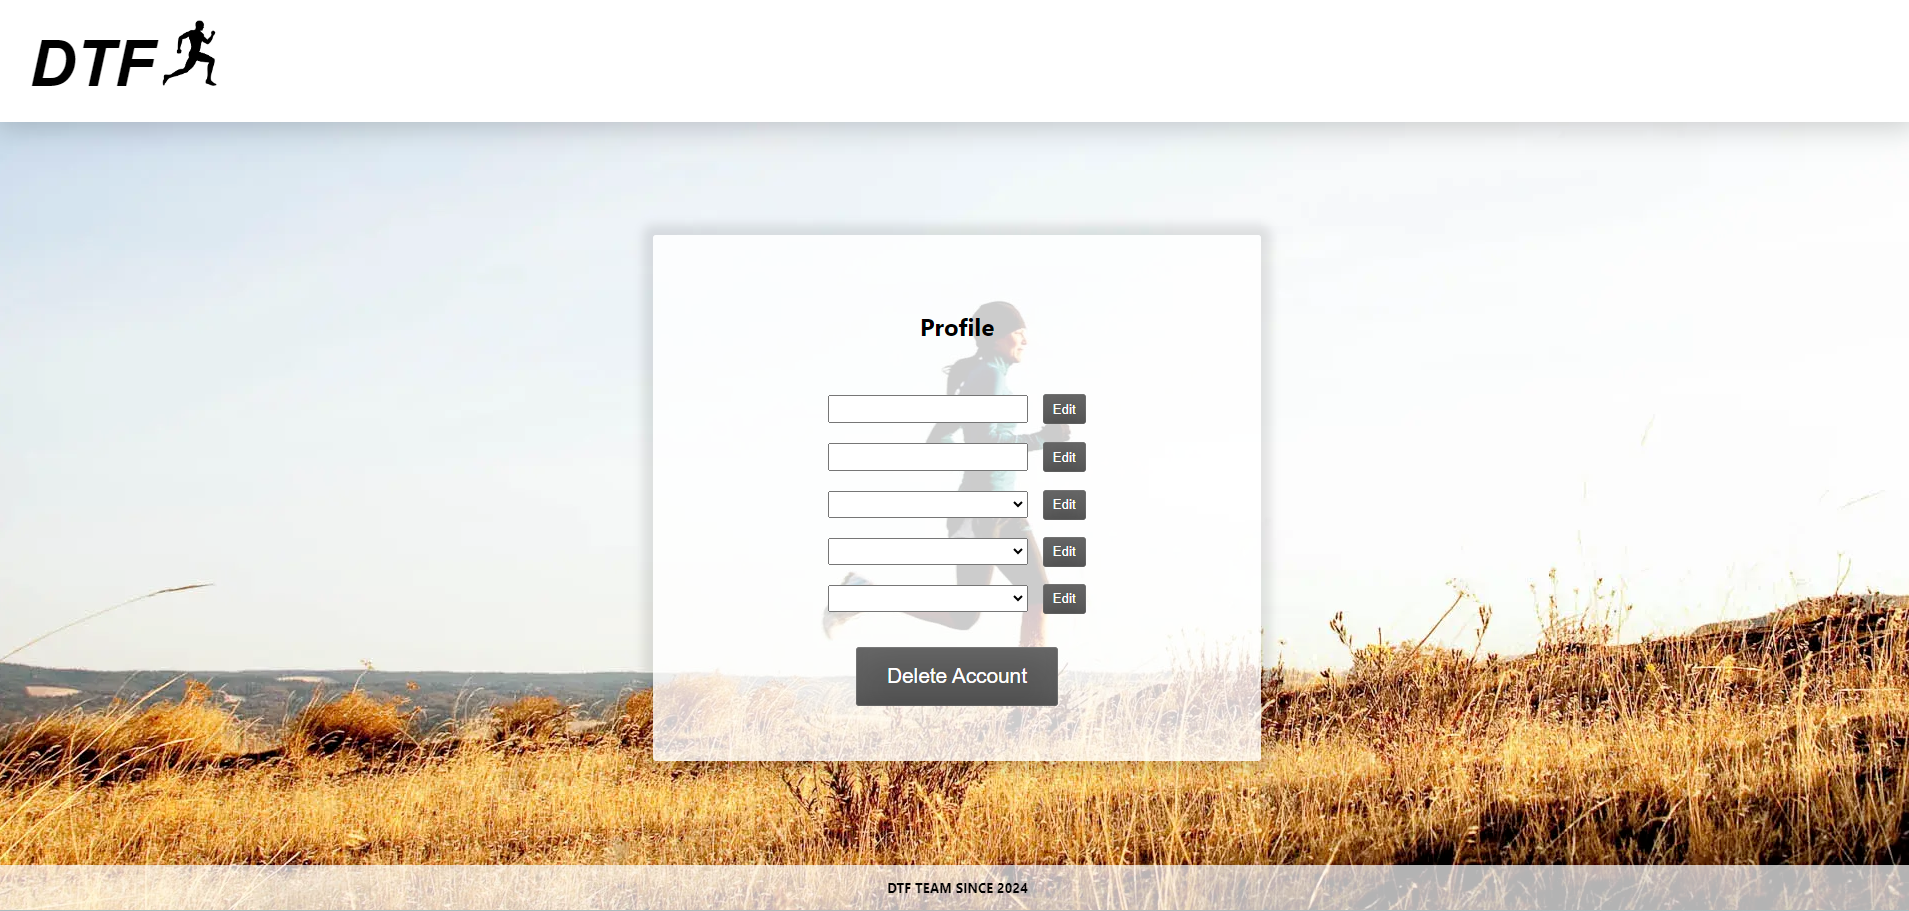
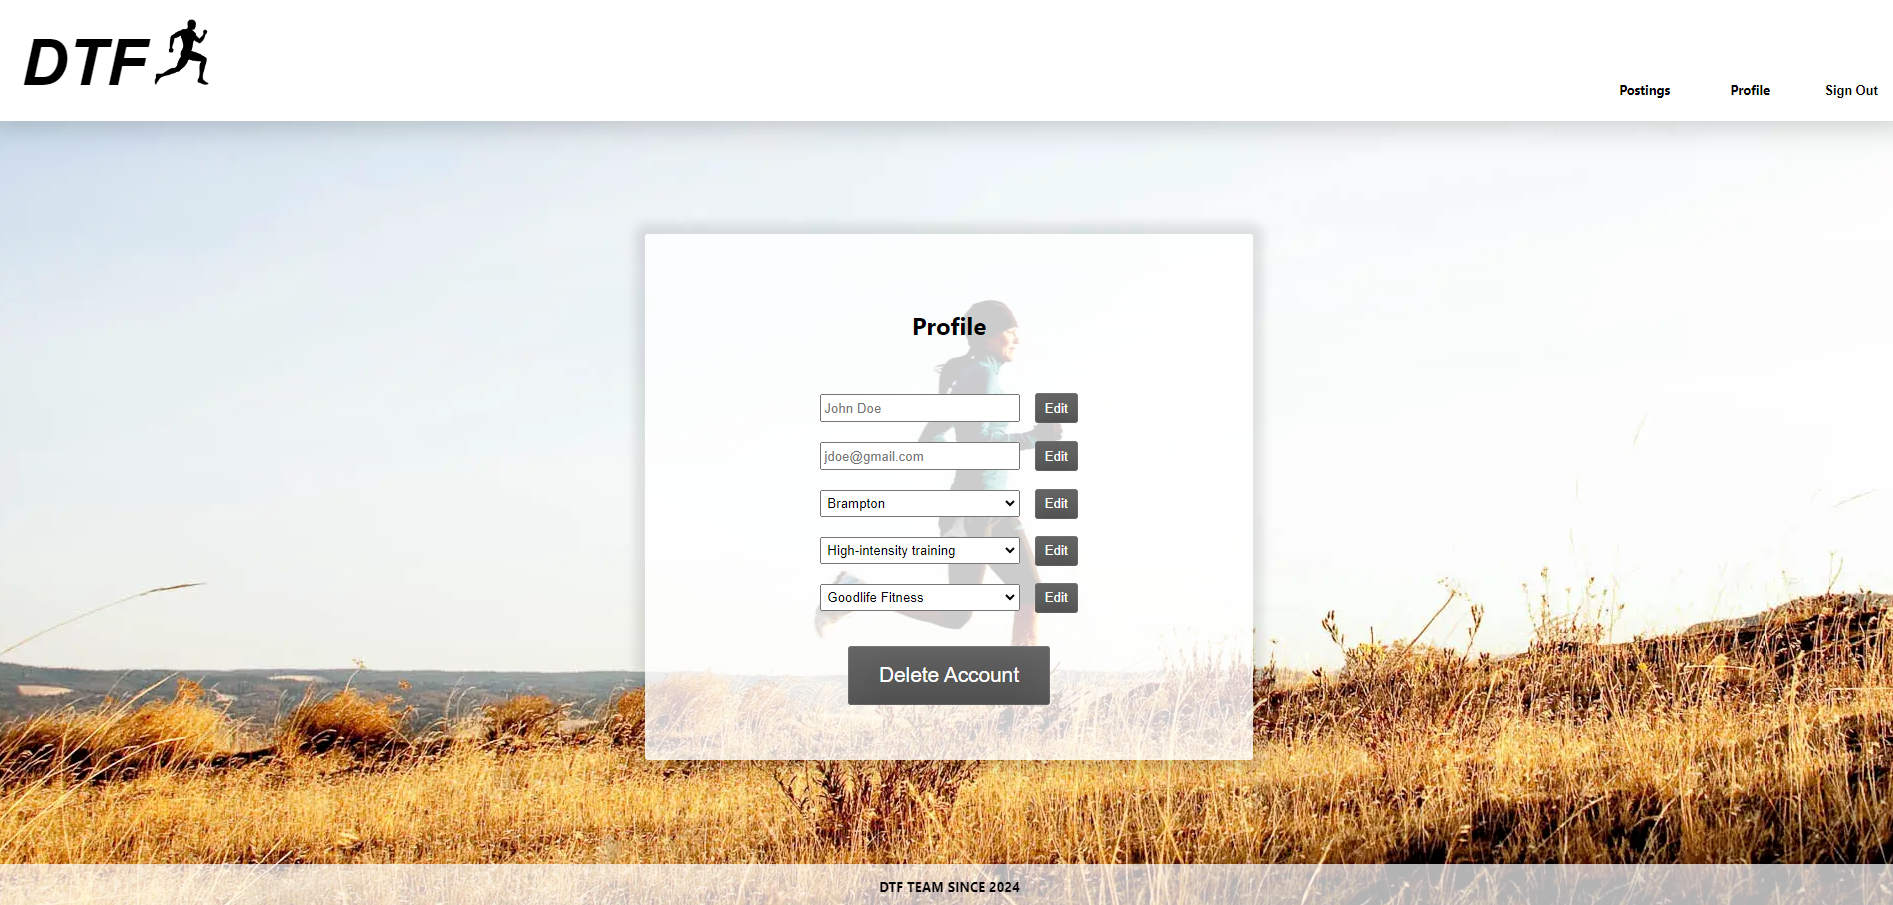
Added more user seed, add in href,  and updated readme

diff --git a/seeds/userr-seeds.js b/seeds/userr-seeds.js
@@ -9,7 +9,7 @@ const userData = [
     gym_id: 1,
     workout_id: 1,
     city_id: 1,
-    password:"12345678"
+    password: "12345678",
   },
   {
     username: "PI",
@@ -19,18 +19,38 @@ const userData = [
     gym_id: 2,
     workout_id: 3,
     city_id: 2,
-    password:"abcdefgh"
+    password: "abcdefgh",
   },
   {
-  username: "JD",
-  // full_name:"Jane Doe",
-  email: "jdoe@gmail.com",
-  gender: "Female",
-  gym_id: 3,
-  workout_id: 5,
-  city_id: 1,
-  password:"password"
-},
+    username: "JD",
+    // full_name:"Jane Doe",
+    email: "jdoe@gmail.com",
+    gender: "Female",
+    gym_id: 3,
+    workout_id: 5,
+    city_id: 1,
+    password: "password",
+  },
+  {
+    username: "Robert Anderson",
+    // full_name:"Robert Anderson",
+    email: "randerson@gmail.com",
+    gender: "Male",
+    gym_id: 3,
+    workout_id: 5,
+    city_id: 1,
+    password: "asd123asd",
+  },
+  {
+    username: "Mary Ann",
+    // full_name:"Mary Ann",
+    email: "mann@gmail.com",
+    gender: "Female",
+    gym_id: 2,
+    workout_id: 5,
+    city_id: 6,
+    password: "yugnghte",
+  },
 ];
 
 const seedUsers = () => User.bulkCreate(userData);

diff --git a/README.md b/README.md
@@ -7,7 +7,7 @@ An application that user can use to find workout buddies.
 - [Description](#description)
 - [Installations](#installations)
 - [Usage](#usage)
-- [Credit](#credit)
+- [Credits](#credits)
 - [License](#license)
 
 ## Installations
@@ -38,9 +38,9 @@ Sign up page:
 ![landing page](/public/assets/signup.png)
 User information page:
 ![landing page](/public/assets/userinfo.png)
-Postings page:
+After signing in - Postings page:
 ![landing page](/public/assets/posting.png)
-Profile page:
+After signing in - Profile page:
 ![landing page](/public/assets/profile.png)
 
 
